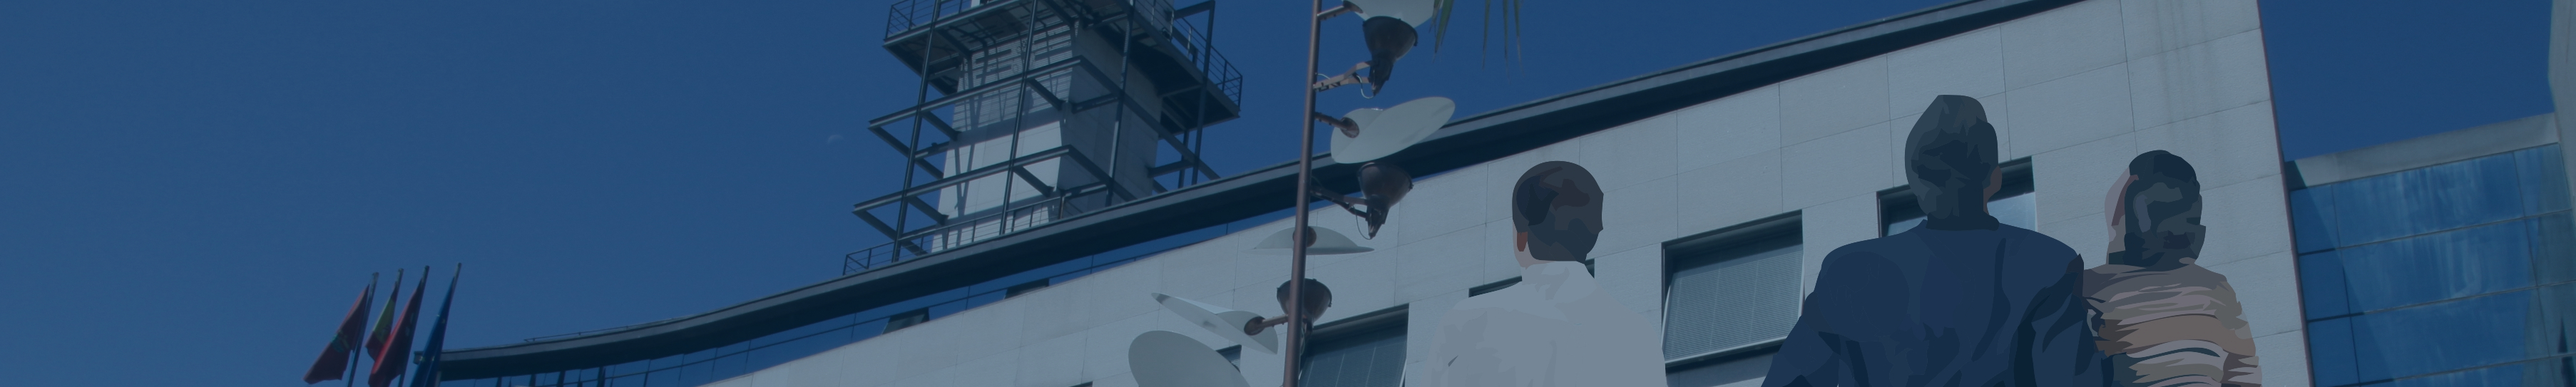
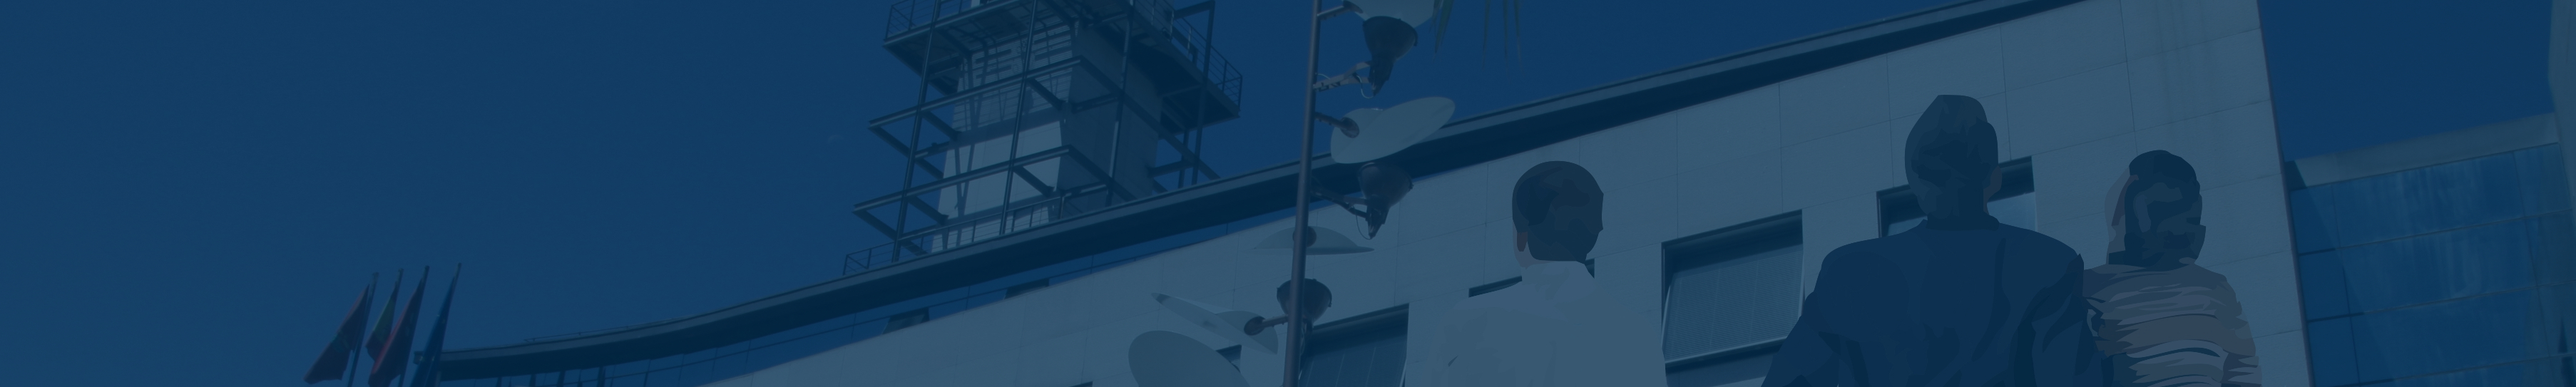
GET-57
- updated background for proccess information

diff --git a/app/assets/stylesheets/custom.scss b/app/assets/stylesheets/custom.scss
@@ -569,11 +569,35 @@ footer h2 a {
 
 /* Budgets */
 
+.budget-header-bg {
+
+  background: $budget image-url('spending_proposals_bg.jpg');
+  background-position: center center;
+  background-repeat: no-repeat;
+  background-size: cover;
+  color: white;
+
+  .inner-info {
+    background-color: rgba(0,0,0,0.3);
+  }
+
+  a.back {
+    span {
+      color: white;
+    }
+    color: white;
+  }
+
+  .callout {
+    display: none;
+  }
+}
+
 .budget.expanded {
 
   background-color: darken($brand, 5%);
   .info {
-    background-color: $brand;
+
 
     .callout {
       display: none;

diff --git a/config/deploy/staging.rb b/config/deploy/staging.rb
@@ -6,4 +6,4 @@ set :ssh_options, port: deploysecret(:ssh_port)
 set :stage, :staging
 set :rails_env, :staging
 
-server deploysecret(:server), user: deploysecret(:user), roles: %w(web app db importer cron)
+server deploysecret(:server), user: deploysecret(:user), roles: %w(web app db importer cron background)
